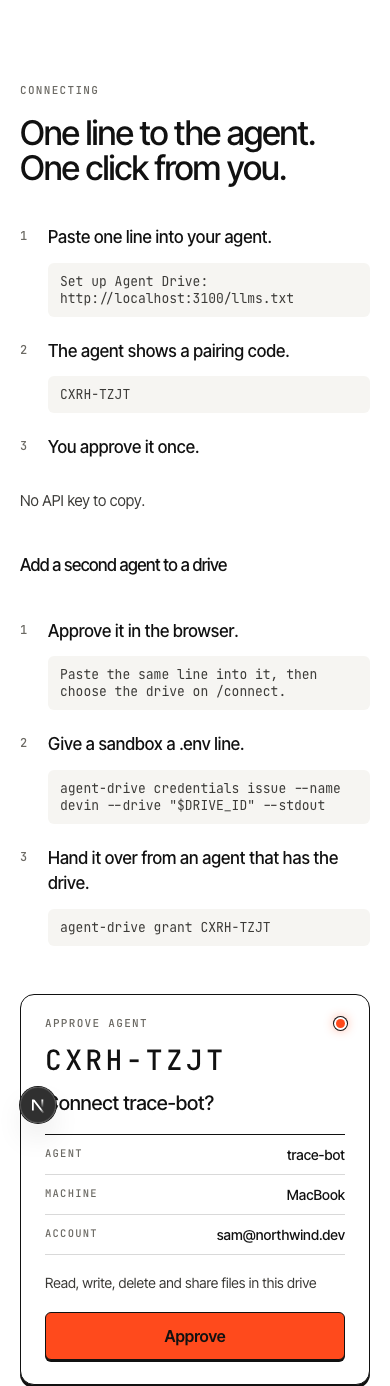
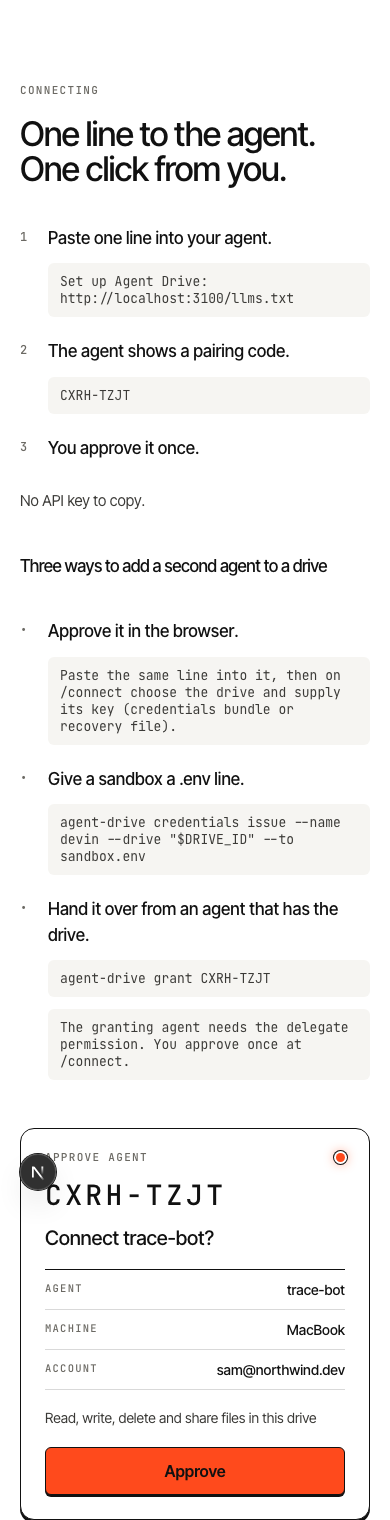
docs(landing): present the second-agent routes as alternatives with accurate commands
credentials issue uses --to (--stdout is rejected on a terminal); /connect needs the drive key; grant needs the delegate permission and a human approval; recent needs a --wait duration.

diff --git a/docs/design/spec-reference.html b/docs/design/spec-reference.html
@@ -211,7 +211,7 @@ footer nav{display:flex;gap:24px;flex-wrap:wrap}footer a{text-decoration:none;co
  <div class="spec s3">
   <div><code>Research</code><p>An agent gathers sources and notes over days. Each run starts from what the last one found, not from an empty sandbox.</p></div>
   <div><code>Long-running goals</code><p>A goal that takes weeks survives restarts, new machines and new models. The plan and the progress live in the drive.</p></div>
-  <div><code>Many agents, one drive</code><p>Agents in separate sandboxes read and write the same files. Every version records which agent wrote it. Each agent has its own key, and its writes can be limited to folders. A conditional write to a file another agent just changed fails with a conflict. Agents catch up on changes with <b>recent --wait</b>.</p></div>
+  <div><code>Many agents, one drive</code><p>Agents in separate sandboxes read and write the same files. Every version records which agent wrote it. Each agent has its own key, and its writes can be limited to folders. A conditional write to a file another agent just changed fails with a conflict. Agents catch up on changes with <b>recent --wait 60 --drive "$DRIVE_ID"</b>.</p></div>
  </div>
 </div></section>
 
@@ -251,16 +251,16 @@ footer nav{display:flex;gap:24px;flex-wrap:wrap}footer a{text-decoration:none;co
   <h2>One line to the agent. One click from you.</h2>
   <ol class="steps">
    <li><i>1</i><b>Paste one line into your agent.</b><div class="t">Set up Agent Drive: https://agentdrive.xyz/llms.txt</div></li>
-   <li><i>2</i><b>The agent shows a pairing code.</b><div class="t">CXRH-TZJT</div></li>
+   <li><i>&bull;</i><b>The agent shows a pairing code.</b><div class="t">CXRH-TZJT</div></li>
    <li><i>3</i><b>You approve it once.</b></li>
   </ol>
   <p class="nokey">No API key to copy.</p>
-  <h3>Add a second agent to a drive</h3>
-  <ol class="steps">
-   <li><i>1</i><b>Approve it in the browser.</b><div class="t">Paste the same line into it, then choose the drive on /connect.</div></li>
-   <li><i>2</i><b>Give a sandbox a .env line.</b><div class="t">agent-drive credentials issue --name devin --drive "$DRIVE_ID" --stdout</div></li>
-   <li><i>3</i><b>Hand it over from an agent that has the drive.</b><div class="t">agent-drive grant CXRH-TZJT</div></li>
-  </ol>
+  <h3>Three ways to add a second agent to a drive</h3>
+  <ul class="steps">
+   <li><i>&bull;</i><b>Approve it in the browser.</b><div class="t">Paste the same line into it, then on /connect choose the drive and supply its key (credentials bundle or recovery file).</div></li>
+   <li><i>&bull;</i><b>Give a sandbox a .env line.</b><div class="t">agent-drive credentials issue --name devin --drive "$DRIVE_ID" --to sandbox.env</div></li>
+   <li><i>&bull;</i><b>Hand it over from an agent that has the drive.</b><div class="t">agent-drive grant CXRH-TZJT</div><div class="t">The granting agent needs the delegate permission. You approve once at /connect.</div></li>
+  </ul>
  </div>
  <div class="pair" aria-label="Approval page">
   <div class="top"><span class="tag">Approve agent</span><span class="led"></span></div>

diff --git a/apps/web/app/(app)/page.tsx b/apps/web/app/(app)/page.tsx
@@ -172,7 +172,8 @@ export default async function Home() {
                 Agents in separate sandboxes read and write the same files. Every version records
                 which agent wrote it. Each agent has its own key, and its writes can be limited to
                 folders. A conditional write to a file another agent just changed fails with a
-                conflict. Agents catch up on changes with <b>recent --wait</b>.
+                conflict. Agents catch up on changes with{' '}
+                <b>recent --wait 60 --drive &quot;$DRIVE_ID&quot;</b>.
               </p>
             </div>
           </div>
@@ -302,28 +303,33 @@ export default async function Home() {
               </li>
             </ol>
             <p className="l-nokey">No API key to copy.</p>
-            <h3>Add a second agent to a drive</h3>
-            <ol className="l-steps">
+            <h3>Three ways to add a second agent to a drive</h3>
+            <ul className="l-steps">
               <li>
-                <i>1</i>
+                <i>&bull;</i>
                 <b>Approve it in the browser.</b>
                 <div className="t">
-                  Paste the same line into it, then choose the drive on /connect.
+                  Paste the same line into it, then on /connect choose the drive and supply its key
+                  (credentials bundle or recovery file).
                 </div>
               </li>
               <li>
-                <i>2</i>
+                <i>&bull;</i>
                 <b>Give a sandbox a .env line.</b>
                 <div className="t">
-                  agent-drive credentials issue --name devin --drive &quot;$DRIVE_ID&quot; --stdout
+                  agent-drive credentials issue --name devin --drive &quot;$DRIVE_ID&quot; --to
+                  sandbox.env
                 </div>
               </li>
               <li>
-                <i>3</i>
+                <i>&bull;</i>
                 <b>Hand it over from an agent that has the drive.</b>
                 <div className="t">agent-drive grant CXRH-TZJT</div>
+                <div className="t">
+                  The granting agent needs the delegate permission. You approve once at /connect.
+                </div>
               </li>
-            </ol>
+            </ul>
           </div>
           <div className="l-pair" role="img" aria-label="Example approval page">
             <div className="top">
